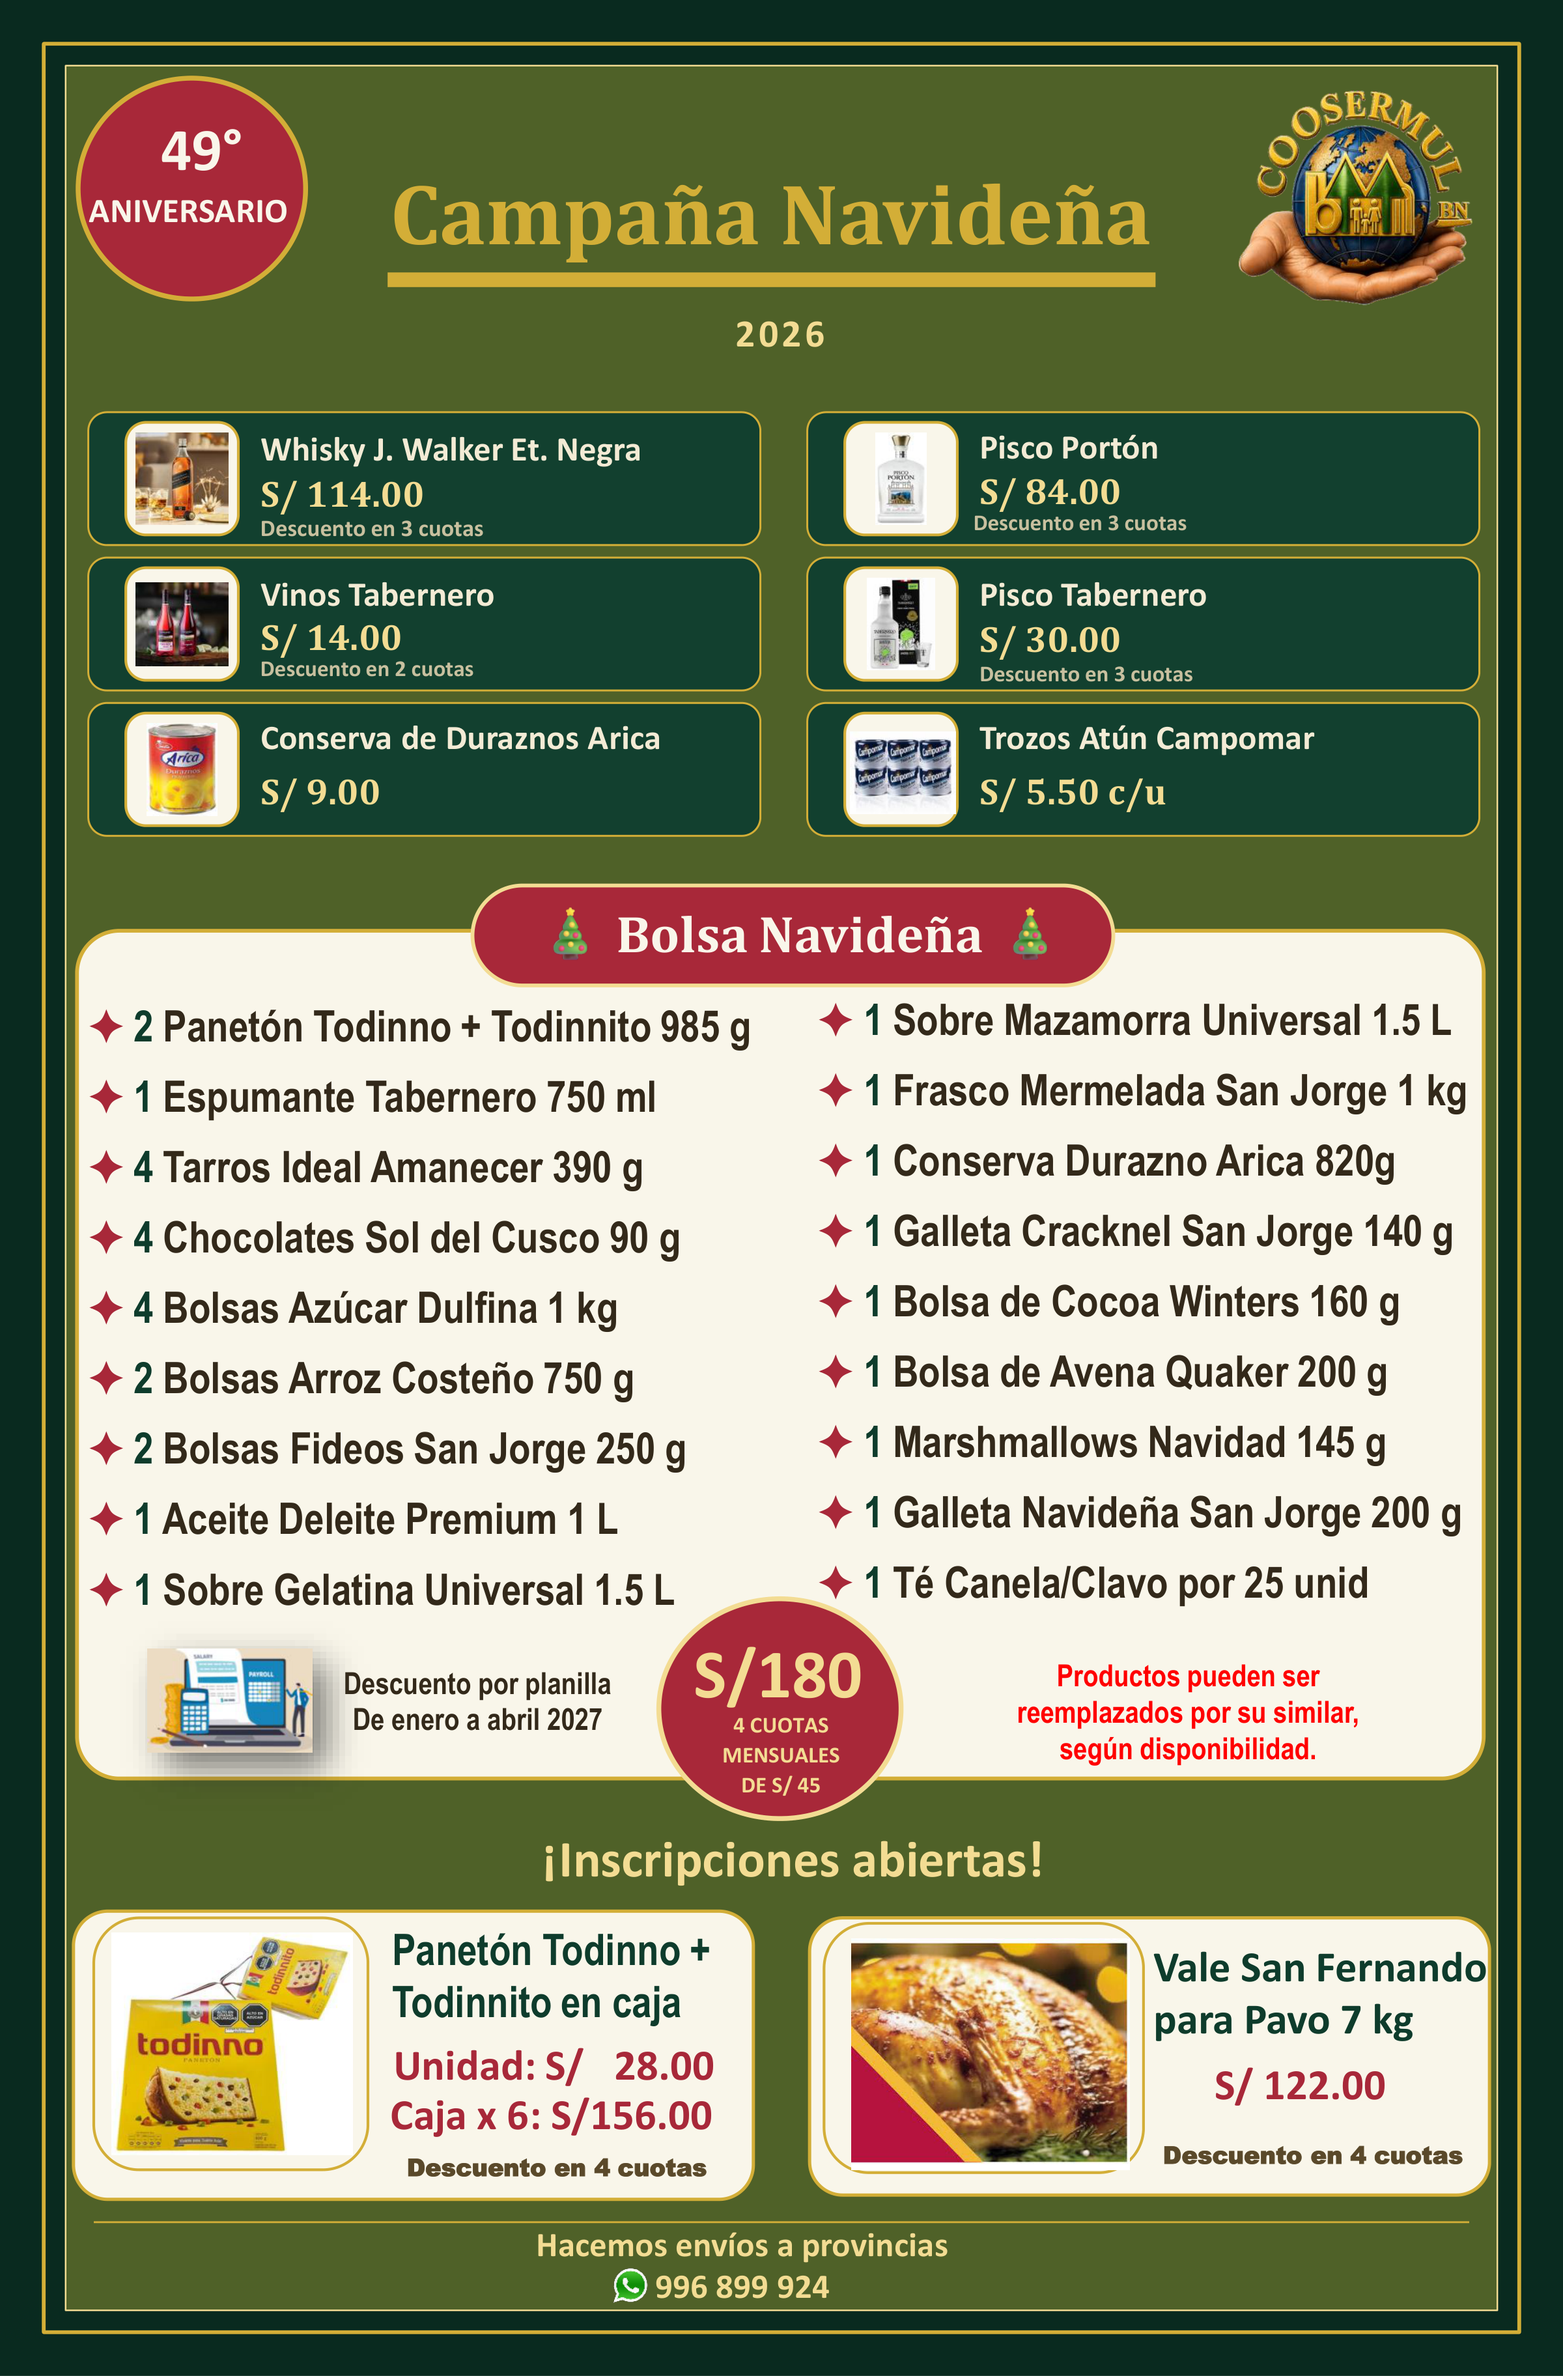
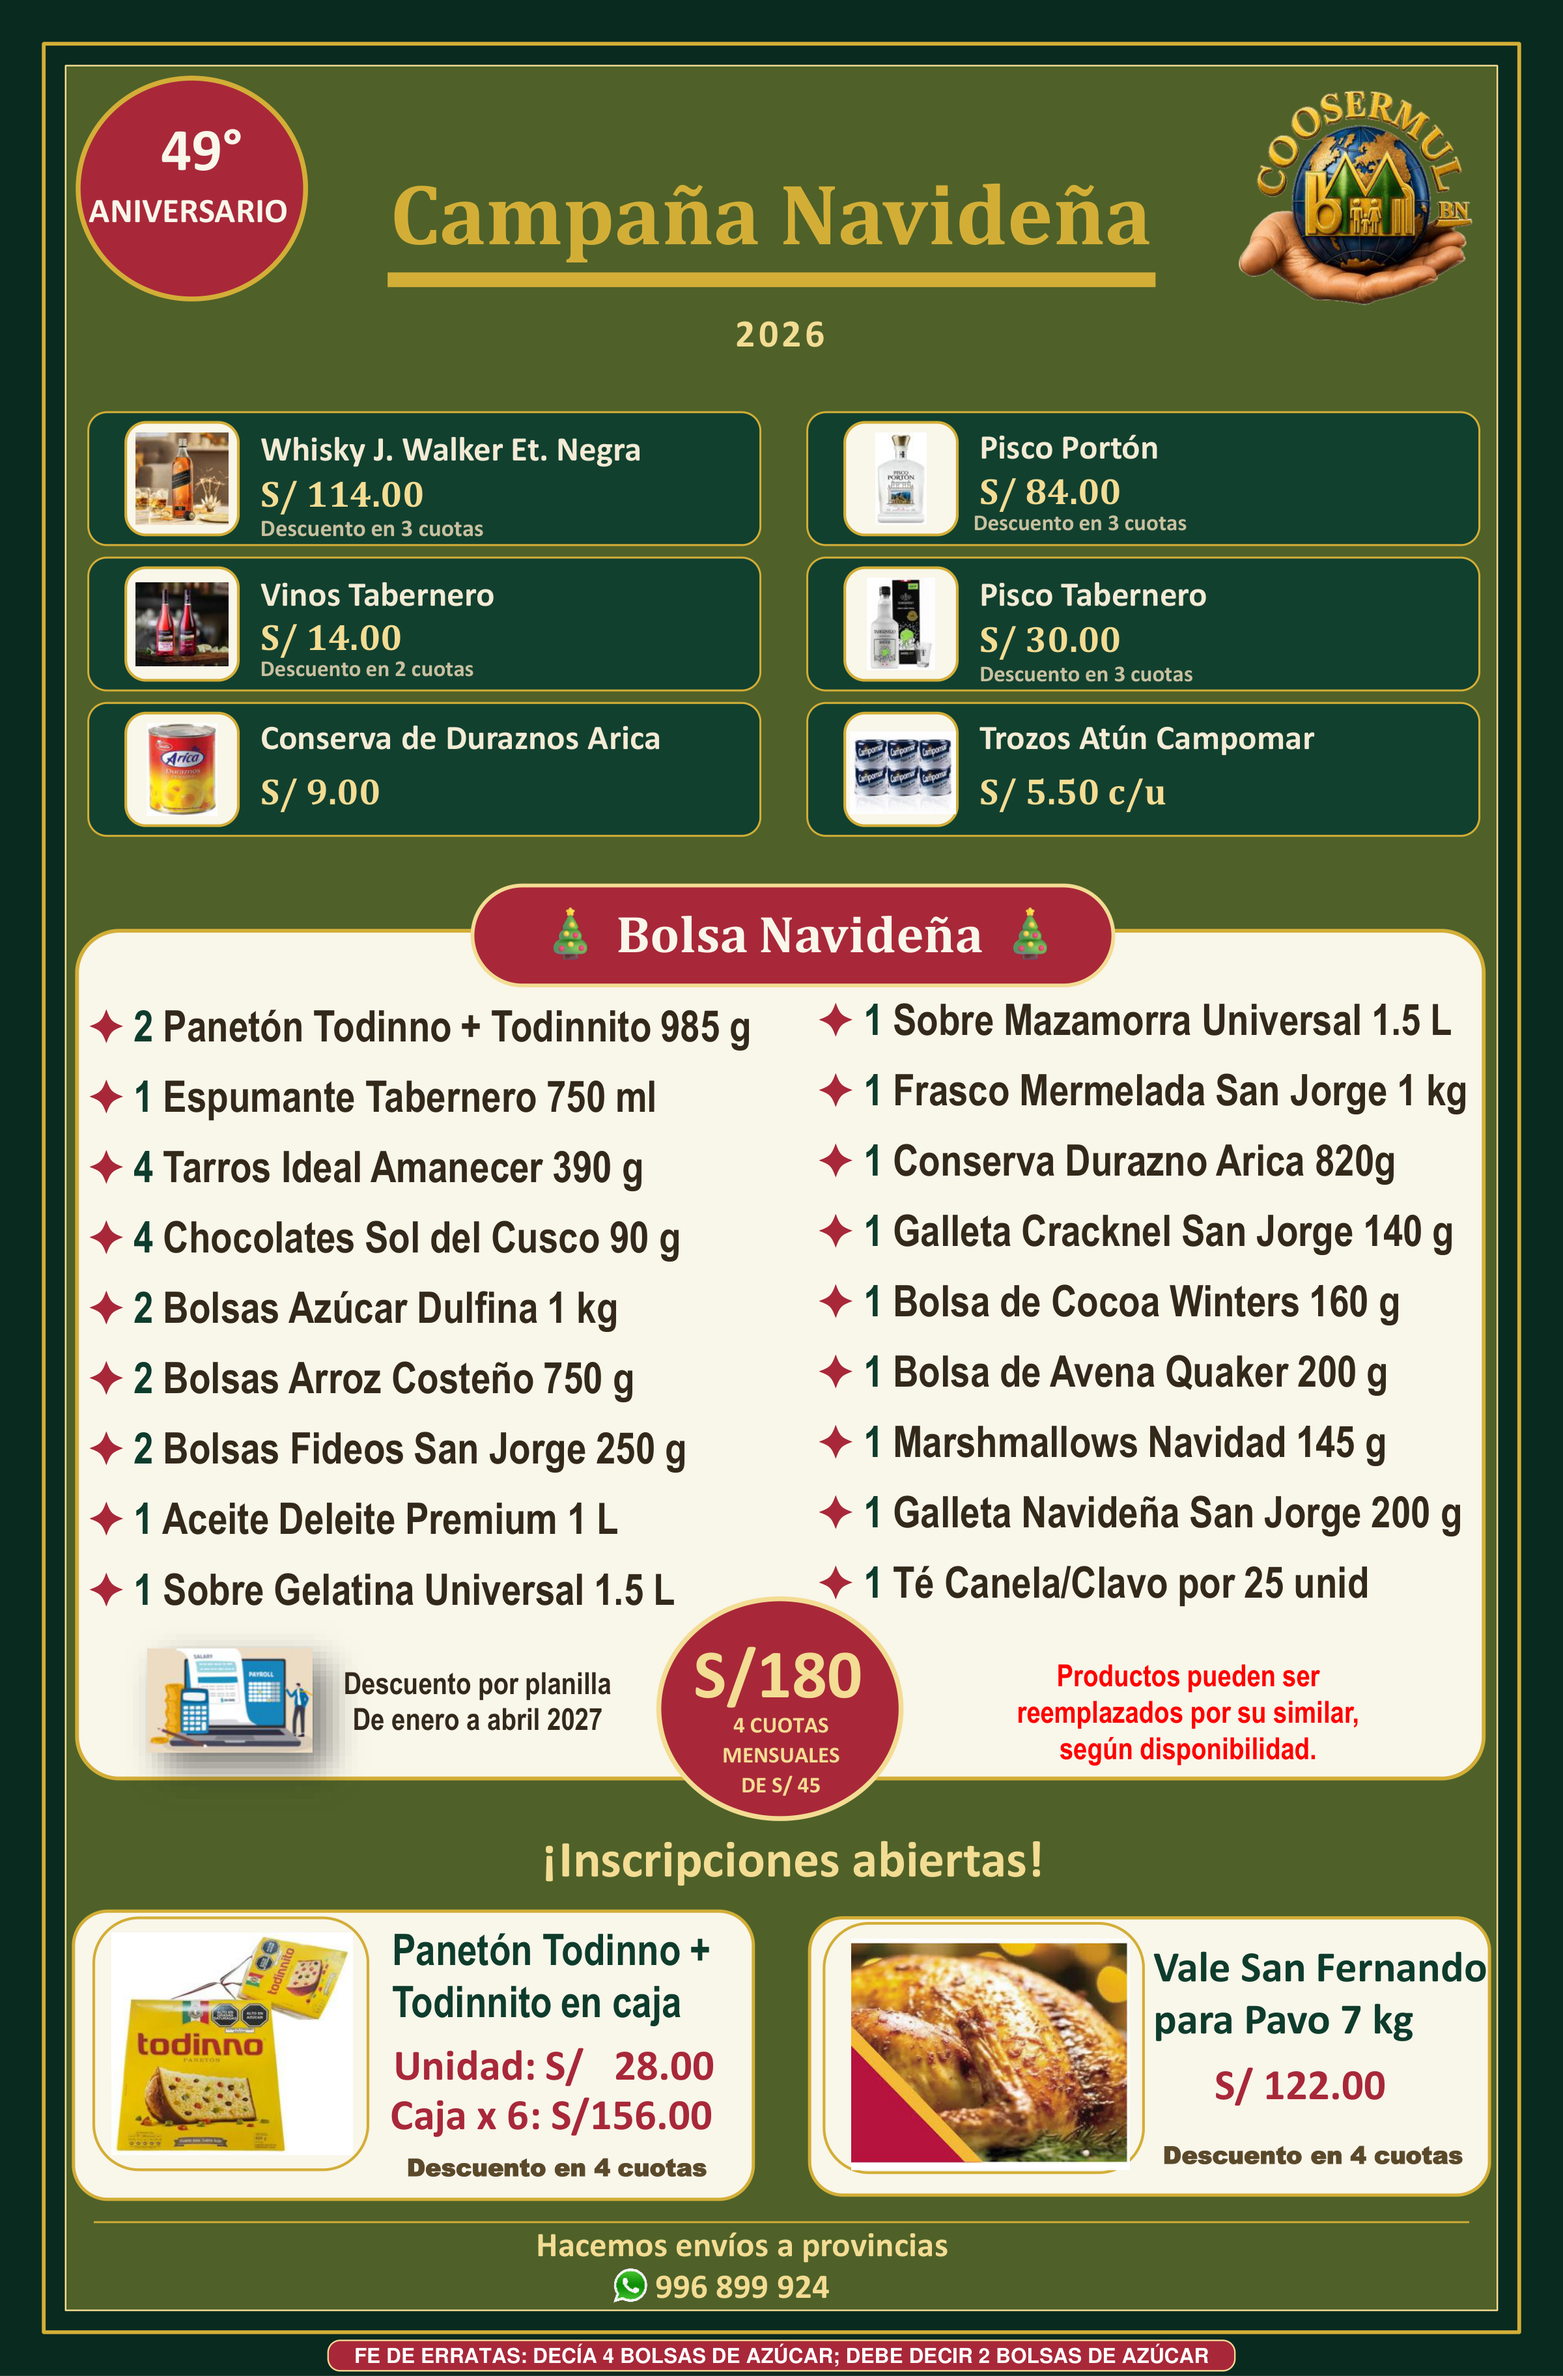
Campaña Navideña: corregir Bolsa Navideña (2 bolsas de azúcar, no 4) con fe de erratas; plantilla de disculpas con lámina corregida

Changed region(s): [[0.1875, 0.9688, 0.8125, 1.0]]

diff --git a/scripts/crear_plantilla_fe_erratas_navidad.py b/scripts/crear_plantilla_fe_erratas_navidad.py
@@ -1,0 +1,64 @@
+# -*- coding: utf-8 -*-
+"""Crea en Meta la plantilla 'fe_erratas_bolsa_navidena_2026': pide disculpas
+por el error de la lamina de la Campaña Navideña (la Bolsa Navideña decia
+4 bolsas de azucar Dulfina y son 2) y adjunta la lamina corregida como IMAGEN
+en el encabezado.
+
+Categoria UTILITY: es una correccion de informacion ya enviada al socio.
+La imagen de la plantilla es solo el ejemplo que Meta revisa; al enviar se
+adjunta la lamina real (data/plantillas_media/lamina_bolsa_navidena_corregida.jpg).
+"""
+import os
+import sys
+
+import httpx
+from dotenv import load_dotenv
+
+sys.stdout.reconfigure(encoding="utf-8", errors="replace")
+load_dotenv()
+
+token = os.getenv("META_ACCESS_TOKEN")
+waba_id = os.getenv("META_WABA_ID")
+if not token or not waba_id:
+    print("Faltan META_ACCESS_TOKEN o META_WABA_ID en .env")
+    sys.exit(1)
+
+API = "https://graph.facebook.com/v21.0"
+IMAGEN = os.path.join(os.path.dirname(os.path.abspath(__file__)), "..", "data", "plantillas_media", "lamina_bolsa_navidena_corregida.jpg")
+
+app_id = httpx.get(f"{API}/debug_token", params={"input_token": token, "access_token": token}, timeout=30).json()["data"]["app_id"]
+
+contenido = open(IMAGEN, "rb").read()
+r = httpx.post(
+    f"{API}/{app_id}/uploads",
+    params={"file_name": "lamina_bolsa_navidena_corregida.jpg", "file_length": len(contenido),
+            "file_type": "image/jpeg", "access_token": token},
+    timeout=30,
+)
+sesion = r.json()["id"]
+r = httpx.post(f"{API}/{sesion}", headers={"Authorization": f"OAuth {token}", "file_offset": "0"},
+               content=contenido, timeout=120)
+handle = r.json()["h"]
+print("imagen de ejemplo subida")
+
+PLANTILLA = {
+    "name": "fe_erratas_bolsa_navidena_2026",
+    "language": "es",
+    "category": "UTILITY",
+    "components": [
+        {"type": "HEADER", "format": "IMAGE", "example": {"header_handle": [handle]}},
+        {
+            "type": "BODY",
+            "text": (
+                "Estimado socio: le pedimos disculpas. En la lámina de la Campaña "
+                "Navideña 2026 que le enviamos, la Bolsa Navideña indicaba 4 bolsas "
+                "de azúcar Dulfina de 1 kg, cuando lo correcto es 2 bolsas. Adjuntamos "
+                "la lámina corregida. Agradecemos su comprensión. — Coosermul BN"
+            ),
+        },
+    ],
+}
+r = httpx.post(f"{API}/{waba_id}/message_templates",
+               headers={"Authorization": f"Bearer {token}", "Content-Type": "application/json"},
+               json=PLANTILLA, timeout=30)
+print("plantilla:", r.status_code, r.text)

diff --git a/agent/admin.py b/agent/admin.py
@@ -170,6 +170,21 @@ PLANTILLAS_DISPONIBLES = {
             "General, Coosermul BN"
         ),
     },
+    "fe_erratas_bolsa_navidena_2026": {
+        "etiqueta": "Fe de erratas Bolsa Navideña (lámina corregida)",
+        "idioma": "es",
+        "variables": [],
+        "imagen_header": {
+            "ruta": os.path.join("data", "plantillas_media", "lamina_bolsa_navidena_corregida.jpg"),
+        },
+        "vista_previa": (
+            "[Lámina de la Campaña Navideña corregida]\n\nEstimado socio: le pedimos "
+            "disculpas. En la lámina de la Campaña Navideña 2026 que le enviamos, la "
+            "Bolsa Navideña indicaba 4 bolsas de azúcar Dulfina de 1 kg, cuando lo "
+            "correcto es 2 bolsas. Adjuntamos la lámina corregida. Agradecemos su "
+            "comprensión. — Coosermul BN"
+        ),
+    },
     "aviso_morosidad_cuota_v2": {
         "etiqueta": "Aviso de morosidad (cuota no cubierta)",
         "idioma": "es",
